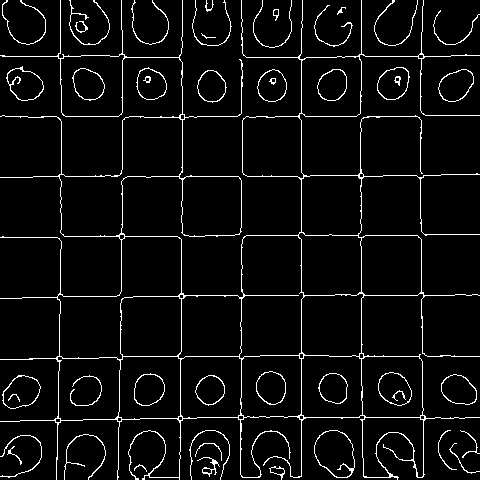
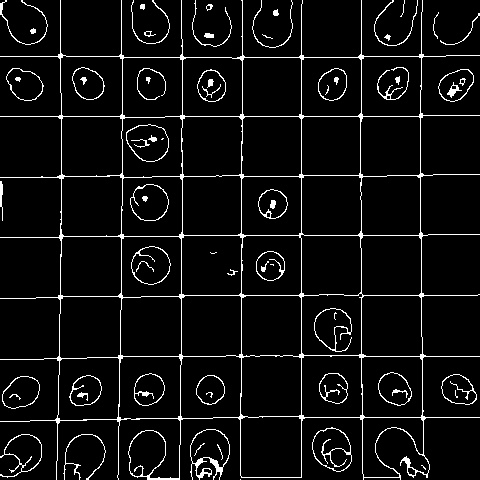
Modif du script, optimisations

diff --git a/vision/ChessCamera.py b/vision/ChessCamera.py
@@ -121,7 +121,7 @@ class ChessCamera(object):
 
     def canny(self, image):
         img = cv2.cvtColor(image, cv2.COLOR_BGR2GRAY)
-        #img = self.adjust_gamma(img, 2)
+        #img = self.adjust_gamma(img, 1.5)
 
         # EDGE DETECTION
         sigma=0.33
@@ -132,13 +132,13 @@ class ChessCamera(object):
         #kernel = np.array([[0,-1,0], [-1,5,-1], [0,-1,0]])
         #img = cv2.filter2D(img, -1, kernel)
 
-        clahe = cv2.createCLAHE(clipLimit=4.0, tileGridSize=(8,8))
-        img = clahe.apply(img)
-        img = cv2.GaussianBlur(img, (5, 5), 3)
+        #clahe = cv2.createCLAHE(clipLimit=4.0, tileGridSize=(8,8))
+        #img = clahe.apply(img)
+        img = cv2.GaussianBlur(img, (5,5), 0)
 
-        #cv2.imwrite("output/inter_{}".format(image_path), img)
+        cv2.imwrite("output/gray.jpg", img)
 
-        edged = cv2.Canny(img, 50, 160)
+        edged = cv2.Canny(img, 30, 50)
         edged = cv2.dilate(edged, None)
         edged = cv2.erode(edged, None)
         return edged
